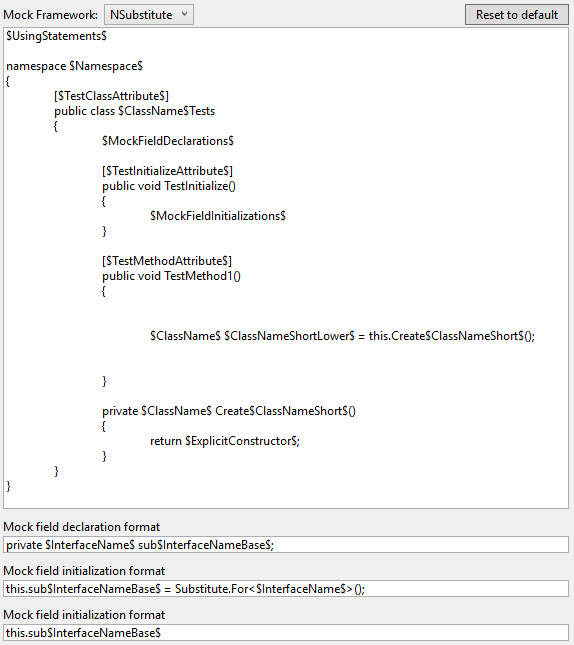
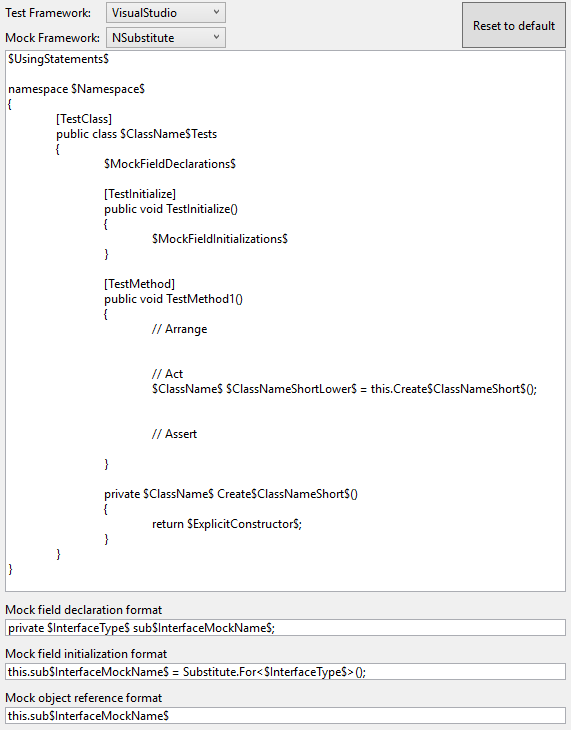
Updated version number, changelog, readme and screenshots for 1.6 release.

diff --git a/README.md b/README.md
@@ -2,7 +2,7 @@
 
 [![Build status](https://ci.appveyor.com/api/projects/status/7ecfxkoe7sj4nw5h?svg=true)](https://ci.appveyor.com/project/RandomEngy/unittestboilerplategenerator)
 
-Download this extension from the [VS Gallery](https://visualstudiogallery.msdn.microsoft.com/f3f3b2a7-cefe-4ffe-add1-9740ae117252)
+Download this extension from the [VS Marketplace](https://marketplace.visualstudio.com/items?itemName=RandomEngy.UnitTestBoilerplateGenerator)
 or get the [CI build](http://vsixgallery.com/extension/UnitTestBoilerplate.RandomEngy.ca0bb824-eb5a-41a8-ab39-3b81f03ba3fe/).
 
 ---------------------------------------
@@ -12,6 +12,7 @@ Generates a unit test boilerplate from a given C# class, setting up mocks for al
 Test frameworks supported:
 * Visual Studio
 * NUnit
+* xUnit
 
 Mock frameworks supported:
 * Moq
@@ -20,7 +21,7 @@ Mock frameworks supported:
 * SimpleStubs
 
 Dependency injection modes supported:
-* Constructor injection
+* Constructor injection via any IoC framework
 * Property injection via Unity, Ninject or Grace
 
 Right click an item in Solution Explorer and choose "Create Unit Test Boilerplate" .

diff --git a/CHANGELOG.md b/CHANGELOG.md
@@ -12,6 +12,16 @@ on the official Visual Studio extension gallery.
 - Support for dependency properties from other IoC frameworks
 - Add an option for what folder to add the test class to
 
+## 1.6.0
+**2017-10-20**
+- Added support for the xUnit test framework
+- Changed templates to be test framework specific as well as mock framework specific. Default templates are now generated dynamically.
+
+## 1.5.12
+**2017-09-24**
+- Fixed framework detection for .NET Core projects
+- Added ability to change the test and mock frameworks before generating the test
+
 ## 1.5.10
 **2017-04-25**
 - Added support for Ninject and Grace property injection
